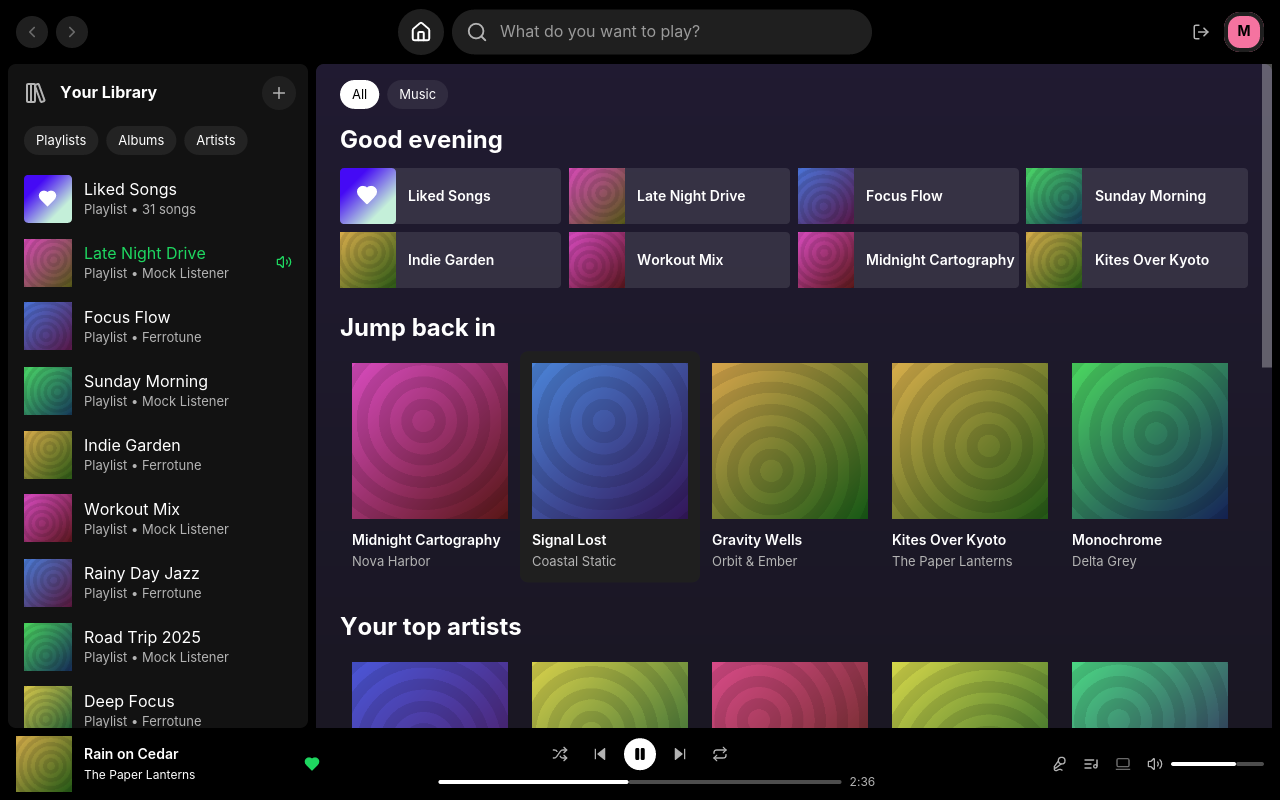
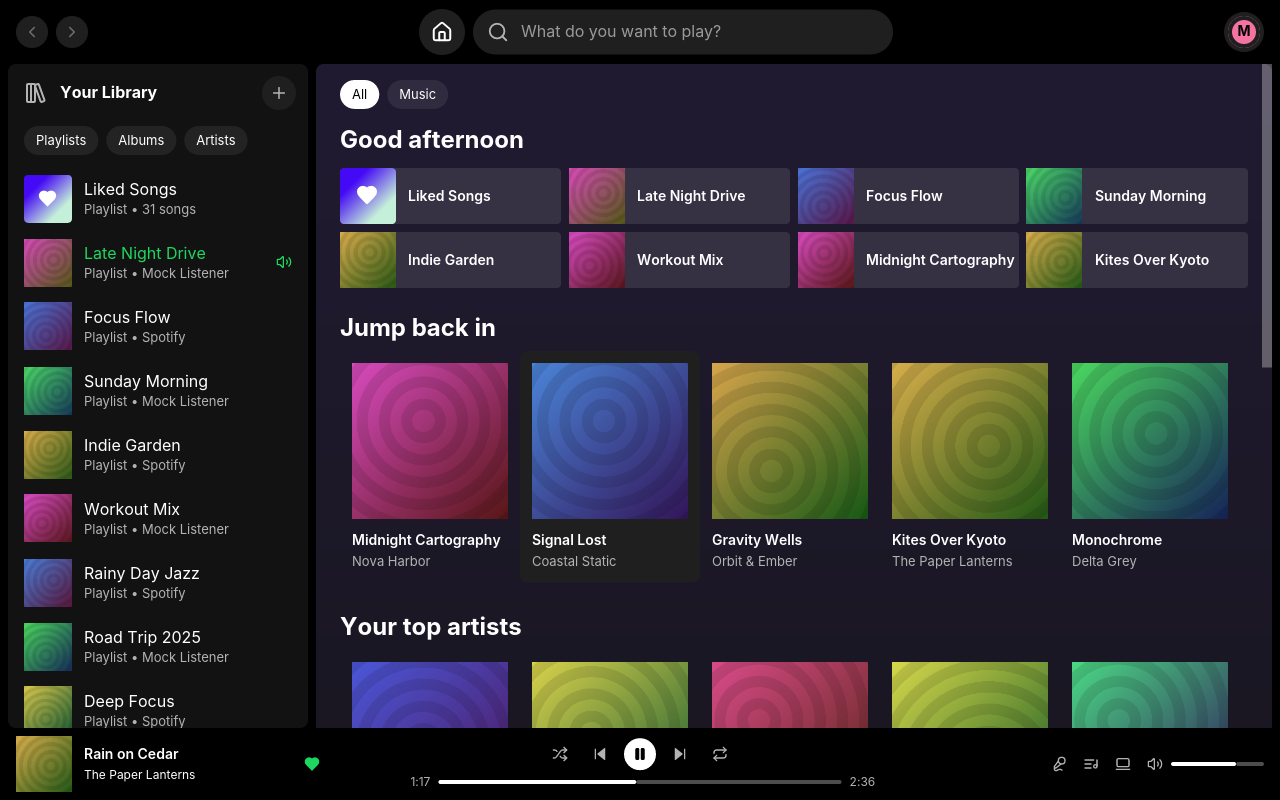
docs: audio-key finding, Connect controller, owner names; screenshots for new screens
Claude-Session: https://claude.ai/code/session_011GZUAJAc8TohrBZJFGozGm

diff --git a/src/mock.rs b/src/mock.rs
@@ -629,6 +629,57 @@ pub fn image(url: &str, max_px: u32) -> DecodedImage {
     DecodedImage::from_rgba(size, size, rgba)
 }
 
+/// The user's other Spotify Connect devices, for screenshots.
+pub fn cluster() -> crate::net::connect_ctl::ClusterState {
+    use crate::net::connect_ctl::{
+        ClusterPlayer, ClusterState, ClusterTrack, DeviceKind, RemoteDevice,
+    };
+    let t = playlist_tracks(1).into_iter().next();
+    ClusterState {
+        active_device_id: Some("phone".into()),
+        devices: vec![
+            RemoteDevice {
+                id: "phone".into(),
+                name: "Pixel 8".into(),
+                kind: DeviceKind::Smartphone,
+                volume: Some(0.6),
+                is_active: true,
+            },
+            RemoteDevice {
+                id: "speaker".into(),
+                name: "Living Room".into(),
+                kind: DeviceKind::Speaker,
+                volume: Some(0.4),
+                is_active: false,
+            },
+            RemoteDevice {
+                id: "desk".into(),
+                name: "Office PC".into(),
+                kind: DeviceKind::Computer,
+                volume: Some(1.0),
+                is_active: false,
+            },
+        ],
+        player: t.map(|t| ClusterPlayer {
+            track: Some(ClusterTrack {
+                uri: t.uri.clone(),
+                name: t.name.clone(),
+                artists: t.artists.iter().map(|a| a.name.clone()).collect(),
+                album: t.album.as_ref().map(|a| a.name.clone()).unwrap_or_default(),
+                cover_url: crate::net::model::pick_image(t.images(), 300).map(|i| i.url.clone()),
+            }),
+            context_uri: "spotify:playlist:pl02".into(),
+            is_playing: true,
+            is_paused: false,
+            position_ms: 64_000,
+            duration_ms: t.duration_ms,
+            shuffle: false,
+            repeat_context: true,
+            repeat_track: false,
+        }),
+    }
+}
+
 #[cfg(test)]
 mod tests {
     use super::*;

diff --git a/src/app/mod.rs b/src/app/mod.rs
@@ -3065,6 +3065,43 @@ impl App {
                     }
                 }
             }
+            "settings" => {
+                self.nav = Nav::new(Route::Home);
+                tasks.push(self.navigate(Route::Settings));
+                self.cache_bytes = Some(23_400_000);
+            }
+            "profile" => {
+                self.nav = Nav::new(Route::Home);
+                self.profiles
+                    .insert("mockuser".into(), crate::mock::profile("mockuser"));
+                tasks.push(self.navigate(Route::Profile("mockuser".into())));
+            }
+            "devices" | "denied" => {
+                self.nav = Nav::new(Route::Home);
+                tasks.push(self.navigate(Route::Library));
+                let mut cluster = crate::mock::cluster();
+                if plan.screen == "denied" {
+                    cluster.active_device_id = None;
+                    for d in &mut cluster.devices {
+                        d.is_active = false;
+                    }
+                    cluster.player = None;
+                    self.local_denied = true;
+                    let reason =
+                        crate::net::audio_diag::UnavailableReason::AudioKeyDenied { code: 1 };
+                    self.playback_block = Some(PlaybackBlock {
+                        reason,
+                        message: format!(
+                            "{} You can play on another device instead.",
+                            reason.describe()
+                        ),
+                    });
+                    self.last_device = Some(("phone".into(), "Pixel 8".into()));
+                } else {
+                    self.device_picker = true;
+                }
+                tasks.push(self.on_cluster(cluster));
+            }
             "queue" => {
                 self.show_queue = true;
                 self.nav = Nav::new(Route::Home);

diff --git a/src/ui/devices.rs b/src/ui/devices.rs
@@ -193,7 +193,8 @@ pub fn block_banner(app: &App) -> Option<El<'_>> {
         container(
             row![
                 icon(Icon::Alert, 16.0, p.text_primary),
-                container(label(b.message.as_str(), M.font_sm, p.text_primary, FONT))
+                label(b.message.as_str(), M.font_sm, p.text_primary, FONT)
+                    .wrapping(iced::widget::text::Wrapping::Word)
                     .width(Length::Fill),
                 actions,
             ]

diff --git a/docs/protocol.md b/docs/protocol.md
@@ -87,13 +87,16 @@ host: `https://api-partner.spotify.com`. Both can be overridden for tests
 
 | Backend (trait) | Data | Endpoint | Format |
 |---|---|---|---|
-| `LibraryApi::me` | display name, avatar | `GET /user-profile-view/v3/profile/{user}` | JSON |
+| `LibraryApi::me` | display name, avatar | `GET /user-profile-view/v3/profile/{user}` (failure falls back to the username) | JSON |
+| `LibraryApi::profile` | profile page, playlist owner names | `GET /user-profile-view/v3/profile/{user}?playlist_limit=N&artist_limit=0&episode_limit=0&market=from_token` | JSON |
 | `LibraryApi::library` | sidebar playlists | `GET /playlist/v2/user/{user}/rootlist?decorate=revision,attributes,length,owner,capabilities,status_code&from=0&length=500` | playlist4 `SelectedListContent` |
 | `LibraryApi::library` / `saved_tracks` | Liked Songs + saved albums | `POST /collection/v2/paging` set `collection` (300/page), then `POST /collection/v2/delta` with the last sync token | collection2v2 (`application/vnd.collection-v2.spotify.proto`) |
 | `LibraryApi::library` | followed artists | same, set `artist` | collection2v2 |
 | `LibraryApi::set_saved` | like / unlike | `POST /collection/v2/write` | collection2v2 `WriteRequest` |
 | `LibraryApi::contains_saved` | heart state | answered from the synced collection index, with no request | — |
-| `CatalogApi::playlist(_tracks)` | playlist + entries | `GET /playlist/v2/playlist/{id}?from=&length=100` | playlist4 |
+| `CatalogApi::playlist(_tracks)` | playlist + entries | `GET /playlist/v2/playlist/{id}?decorate=revision,length,attributes,timestamp,owner,capabilities&from=&length=100` | playlist4 |
+| `connect_ctl` | Connect devices | `PUT /connect-state/v1/devices/hobs_{device id}` (hidden observer, `PICKER_OPENED`) + dealer `hm://connect-state/v1/cluster` | connect `PutStateRequest` → `Cluster` |
+| `connect_ctl` | control another device | `POST /connect-state/v1/player/command/from/{us}/to/{it}`, `POST …/connect/transfer/from/{us}/to/{it}`, `PUT …/connect/volume/from/{us}/to/{it}` | JSON |
 | `CatalogApi::*` | track / album / artist metadata | `POST /extended-metadata/v0/extended-metadata`, **batched** (≤100 URIs), `TRACK_V4` / `ALBUM_V4` / `ARTIST_V4` | `BatchedEntityRequest` → `metadata.Track/Album/Artist` |
 | `PlaylistApi::create_playlist` | create | `POST /playlist/v2/playlist` (`ListUpdateRequest` with the name), then add to the rootlist | playlist4 |
 | `PlaylistApi::edit_playlist` | add / remove / move / rename | `POST /playlist/v2/playlist/{id}/changes` (`ListChanges`: one `Delta` with `ADD` / `REM` / `MOV` / `UPDATE_LIST_ATTRIBUTES` ops) | playlist4 |
@@ -127,9 +130,31 @@ Bodies are built from `librespot-protocol`'s `playlist4_external` messages
 - The app refuses index-based edits (remove, move) when the loaded entries
   do not line up with the server's positions (episodes or removed items were
   dropped while loading: `TrackList::indices_exact`).
+- **Who may edit:** Spotify's `capabilities.can_edit_items` (rootlist
+  `MetaItem` / playlist `SelectedListContent`) decides, which also covers
+  collaborative lists. Without it, the owner is compared (as a bare,
+  case-insensitive username; `spotify:user:` and percent-encoding are
+  stripped) with the session's canonical username (`session.username()`),
+  so editing never depends on the profile fetch.
 - **Unverified against the live service:** the endpoint paths and op shapes
   follow the playlist4 protocol but were only exercised against wiremock
-  fixtures. Collaborative playlists are not treated specially.
+  fixtures.
+
+### Owner names and incomplete playlists (`app/meta.rs`)
+
+- Owners arrive as usernames (`0d2x…`). Like the desktop client, the app
+  resolves them with the profile view (cached 24 h in the SQLite HTTP
+  cache), at most 20 per batch, only for strings that look like usernames.
+  `spotify` is always shown as "Spotify", the user's own lists show their
+  display name.
+- Rootlist entries can come without name or picture (personalised and
+  Spotify-made lists such as Daily Mix or Discover Weekly). Covers are read
+  from `picture`, then `picture_size` (server-rendered mosaics), then an
+  `image_url` format attribute; names from `name`, then `title`/`name`
+  format attributes. Anything still missing is fetched lazily from the
+  playlist itself (12 per batch, once per run) and, without a picture, drawn
+  as a 2x2 mosaic of the first four distinct album covers. The filled
+  library is written back to the cache.
 
 ### Resilience and request behaviour
 
@@ -220,6 +245,57 @@ or null `data` is never cached.
   the current position, reconnects, and reloads the track on play instead
   of skipping "unavailable" tracks.
 - `--mock` uses `MockEngine`, a simulated clock with the same events.
+
+### Why a track is "unavailable" (`net/audio_diag.rs`)
+
+librespot 0.8 sends `PlayerEvent::Unavailable` for every load failure and
+keeps the reason in its log. Ferrotune installs a `tracing` layer (always
+on, whatever `RUST_LOG` says) that reads librespot's own records:
+
+| librespot record | Stage | App reaction |
+|---|---|---|
+| `librespot_core::audio_key`: `error audio key 0 1` | access point refused the AES key (permanent) | stop at once, one banner, offer a Connect device |
+| `error audio key 0 2` | temporary refusal | retry the same track once |
+| `Track is unavailable: …` | region/catalogue restriction, embargo | skip |
+| `… not available in any supported format` | no Vorbis/MP3 file | skip |
+| `Unable to load audio item / encrypted file` | metadata, storage-resolve or CDN | skip |
+| `Unable to read audio file` (without a key error) | decoder | skip |
+
+At most three unavailable tracks in a row are skipped; the fourth stops
+playback with one persistent banner (no looping toast). Identical toasts
+keep their timer, so repeated events never flicker.
+
+**Audio key denial (real-account finding, v0.4.0).** Login, metadata,
+storage-resolve and the CDN download all work, but the access point answers
+every key request with code 1. This is upstream librespot issue #1649:
+Spotify is phasing out these key requests for some (mostly newer) accounts;
+librespot PR #1763 only retries code 2. The official clients use a different
+DRM key path that Ferrotune does not and will not reimplement. For those
+accounts local playback cannot work, so Ferrotune becomes a controller: the
+banner offers "Play on <device>" (the active or last used device), and with
+`local_denied` (or "Play on this computer" off) every Play goes to that
+device through connect-state.
+
+### Spotify Connect controller (`net/connect_ctl.rs`)
+
+- The engine starts an observer per session once the dealer has a
+  connection id (i.e. Spotify Connect is enabled): one `PUT` as a hidden
+  observer device `hobs_<device id>` (type `OBSERVER`, `can_be_player`
+  false, `hidden` true, reason `PICKER_OPENED`) returns the cluster, and
+  dealer pushes on `hm://connect-state/v1/cluster` keep it current. Opening
+  the picker re-reads it.
+- The picker lists the other visible devices (ours, observers, hidden and
+  offline ones are left out), active first. Choosing one transfers the
+  current remote session, or hands the local queue over as a `play` command
+  (context, track and position). "This computer" transfers back.
+- While another device is active, the player bar, seek bar, volume, shuffle,
+  repeat and MPRIS show and control it (`pause`, `resume`, `skip_next`,
+  `skip_prev`, `seek_to`, `set_shuffling_context`, `set_options`, volume
+  `PUT`), with optimistic updates corrected by the next cluster push. The
+  local player pauses when another device starts playing.
+- **Unverified against the live service:** the observer registration and
+  command shapes follow what the web player sends and librespot's own
+  connect-state code; no real account was available here.
 
 ## 3a. Spotify Connect (`net/session.rs`, `net/playback.rs`)
 

diff --git a/LESSONS.md b/LESSONS.md
@@ -2,6 +2,17 @@
 
 Things learned while building Ferrotune. Add new entries at the top.
 
+- **librespot hides why a track failed.** `PlayerEvent::Unavailable` has no
+  reason; the cause is only in librespot's log. A tracing layer that reads
+  librespot's own records (`net/audio_diag.rs`) turned "every song is
+  unavailable" into "audio key refused with code 1" (librespot #1649), which
+  no client-side retry fixes. Never auto-skip on a failure that hits every
+  track: cap the streak and show one banner.
+- **Owners are usernames, ownership is a capability.** Rootlist owners are
+  raw usernames and the profile fetch is optional; compare with
+  `session.username()` and prefer `capabilities.can_edit_items`, which also
+  covers collaborative lists.
+
 - **`mouse_area` reports no window position.** Its `on_move` point is local to
   the widget and its right-press carries nothing, so a context menu needs a
   tiny wrapper widget (`ui/context_area.rs`) that reads `cursor.position()`.

diff --git a/CLAUDE.md b/CLAUDE.md
@@ -54,3 +54,6 @@ No packaging yet. Release binary from `cargo build --release`;
   its top: add new passive events (hover, scroll, resize) there.
 - Playlist edits are optimistic: keep the `EditSnapshot` rollback path (tested
   in `app/playlists.rs`) when adding new edit kinds.
+- librespot's `Unavailable` has no reason: `net/audio_diag.rs` reads it from
+  librespot's log. Audio key code 1 = Spotify denies local playback for the
+  account (librespot #1649); play through Connect, never bypass it.
